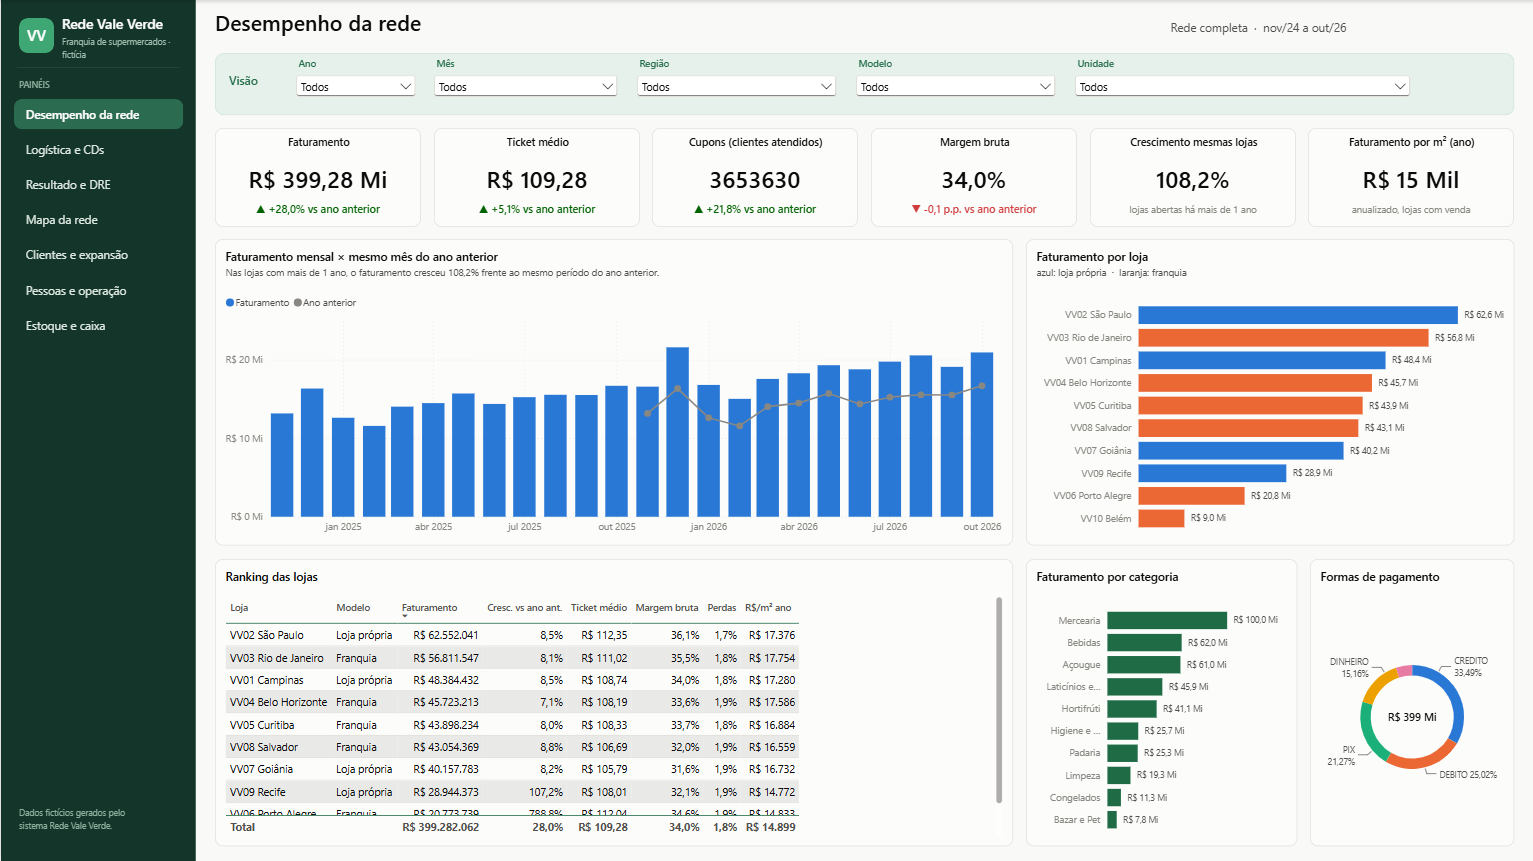
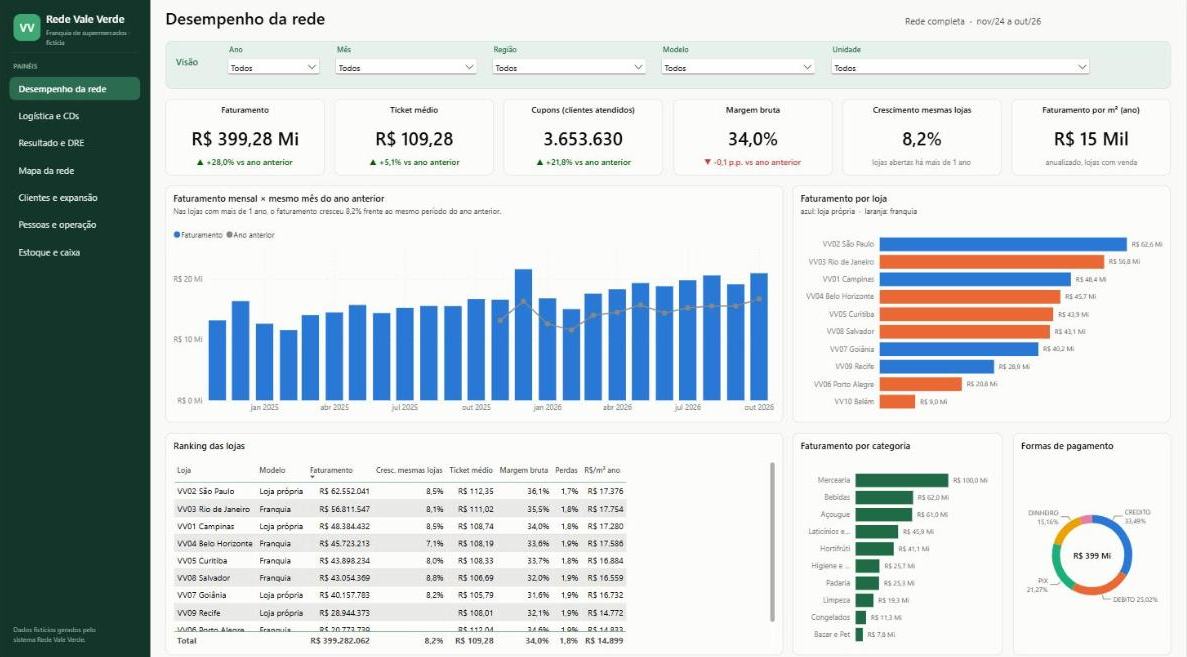
Painel interativo do Power BI e print atualizado

diff --git a/config.js b/config.js
@@ -19,7 +19,7 @@ window.PERFIL = {
 
   // Link do "Publicar na Web" do Power BI (https://app.powerbi.com/view?r=...)
   // Enquanto estiver vazio, o site mostra os prints dos painéis.
-  relatorio: "",
+  relatorio: "https://app.powerbi.com/view?r=eyJrIjoiN2RlODJjZDEtODhkMS00ODBkLWI1NjEtNjA2YzFhZGEzNmQ5IiwidCI6IjkxZGY2MzNlLTliNmEtNGRmOS1iZjg4LTc0YTNhNjVjODk5NSJ9",
 
   repositorio: "https://github.com/MarianaCortezSottilo/rede-vale-verde",
 
